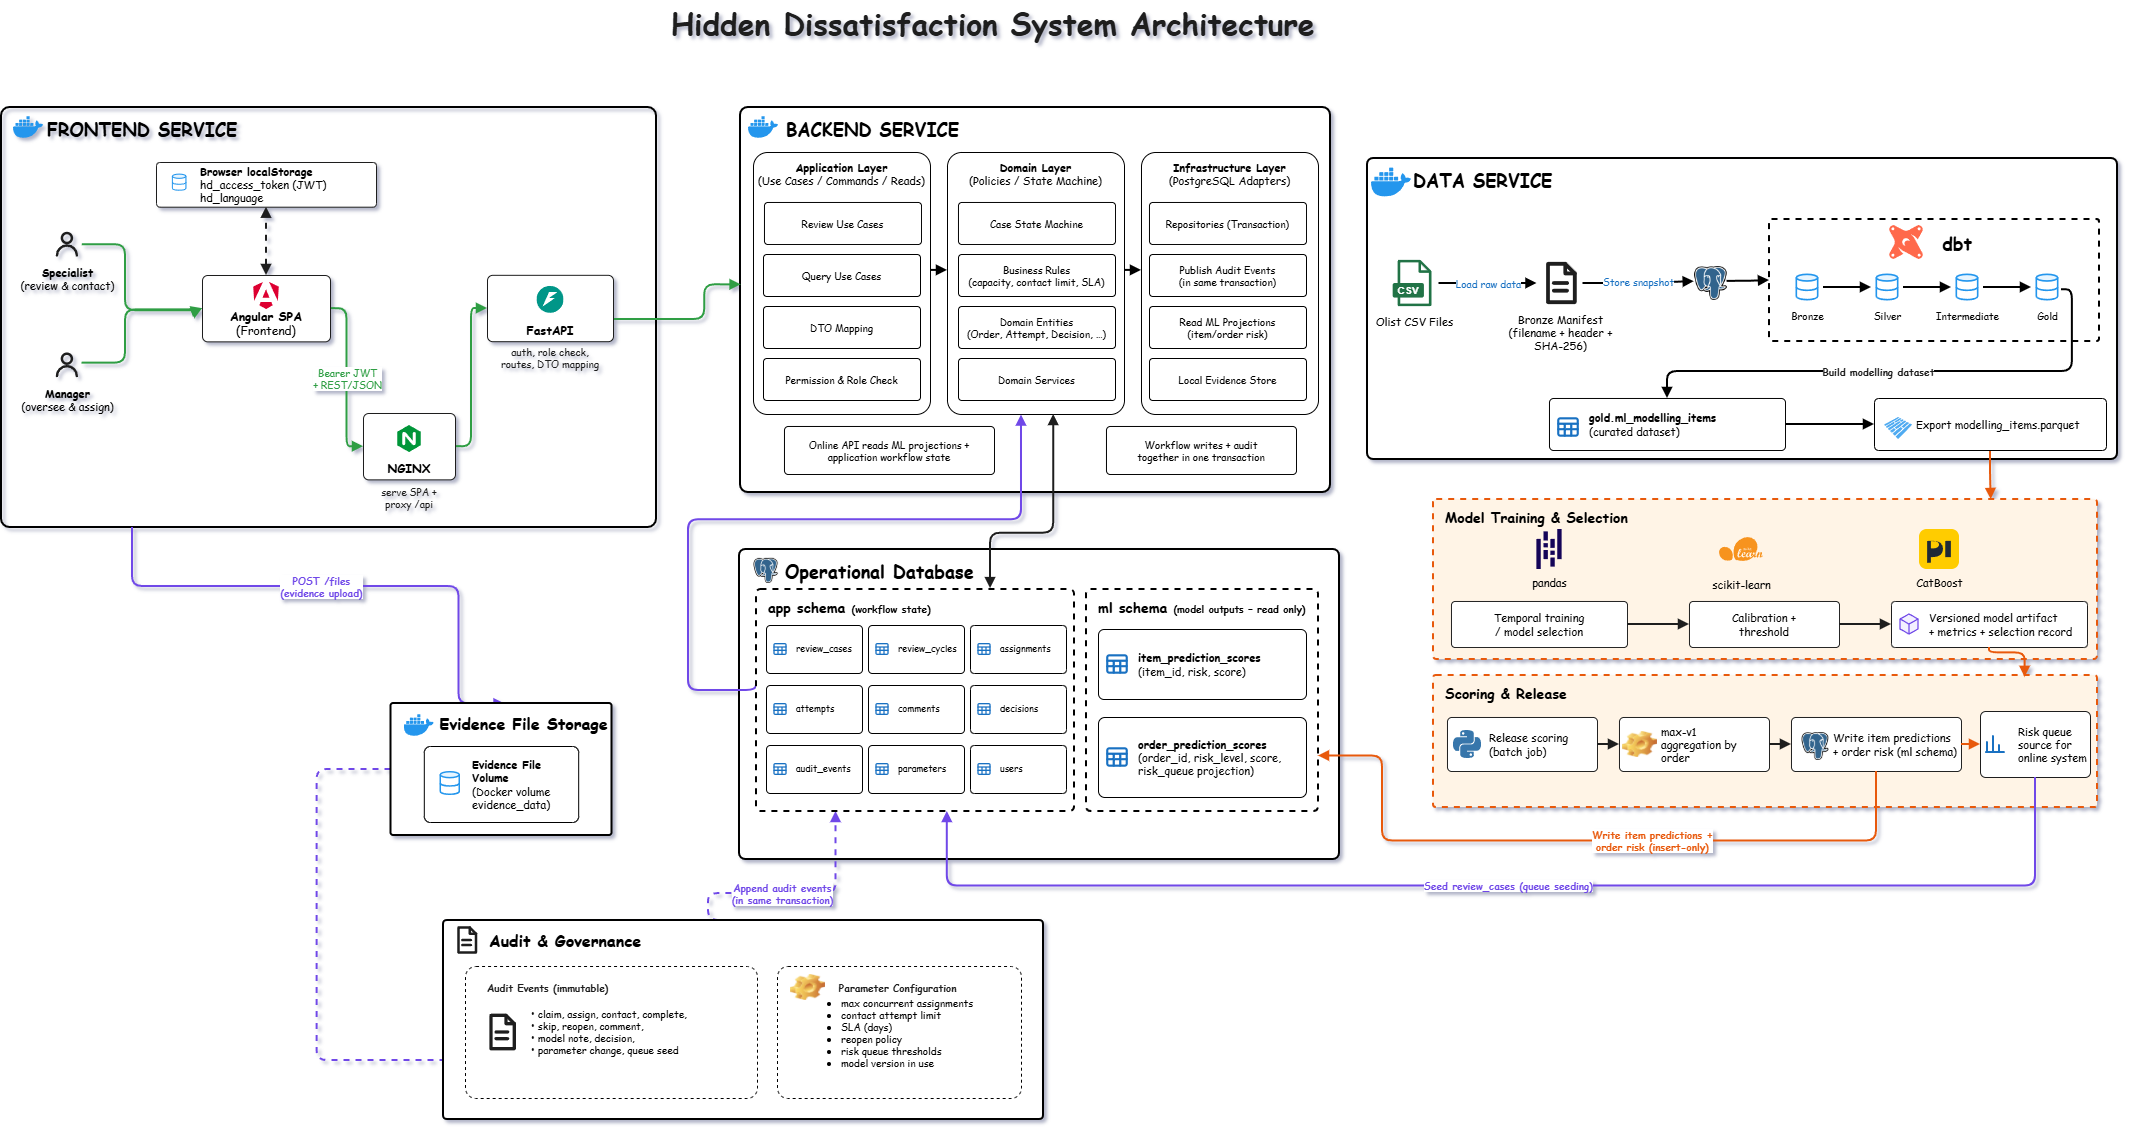
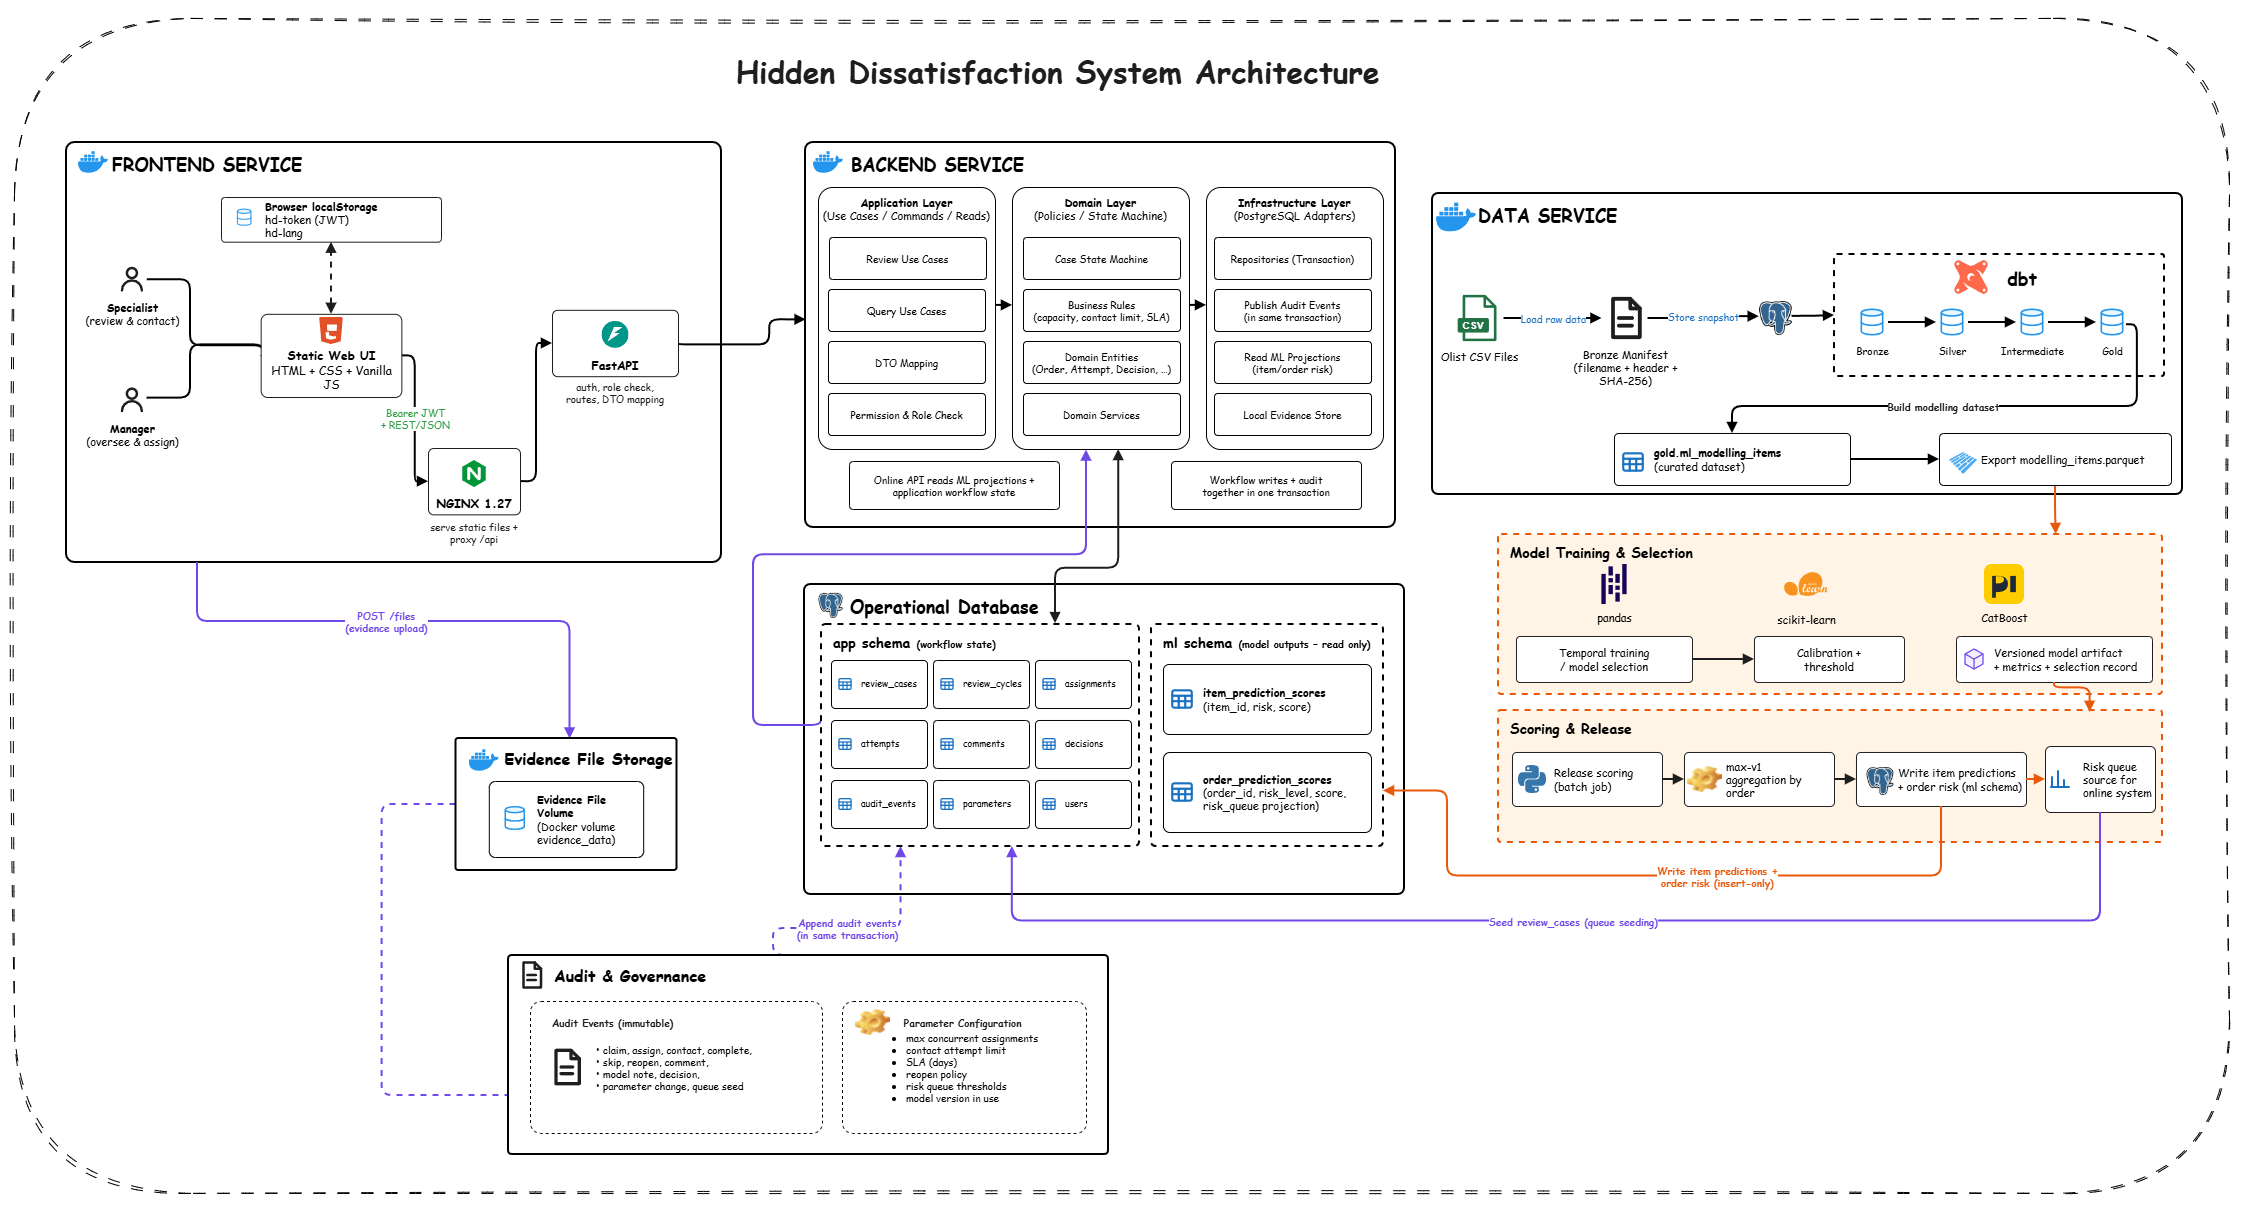
docs(thesis): align chapter 3/4 with as-built system on dev
- Replace Angular with static web UI (HTML/CSS/JS via NGINX) in ch3/ch4 and
  architecture diagram; re-export Figure 3.2
- Ch3: reconcile sealed-test wording with ch4, note prevalence grain gap,
  mark declared vs executed model families, add calibration Brier results,
  dedupe system spec with ch4, retitle section 3.1
- Fix Figure 3.1 so warehouse frame no longer overlaps ML steps
- Link architecture diagram from section 4.2

diff --git a/Thesis/latex/chapters/ch4_complete.tex b/Thesis/latex/chapters/ch4_complete.tex
@@ -9,7 +9,7 @@ Hệ thống tách luồng ngoại tuyến và trực tuyến. Luồng ngoại t
 
 \section{Kiến trúc hệ thống và ranh giới dữ liệu}\label{sec:architecture}
 
-Hệ thống gồm PostgreSQL, dịch vụ FastAPI, ứng dụng Angular và các job Python, được đóng gói bằng Docker Compose. PostgreSQL giữ ba vùng dữ liệu có vai trò khác nhau: Bronze/Silver/Gold phục vụ kho dữ liệu; schema \texttt{ml} giữ release, snapshot dự đoán và ngưỡng; schema \texttt{app} giữ người dùng, case, chu kỳ xử lý, liên lạc, quyết định, tham số và audit. Angular gọi REST/JSON đến FastAPI; FastAPI điều phối request, xác thực, phân quyền và ánh xạ lỗi, còn luật nghiệp vụ nằm ở domain/use case và adapter PostgreSQL thực hiện giao dịch.
+Hệ thống gồm PostgreSQL, dịch vụ FastAPI, giao diện web tĩnh (HTML, CSS, JavaScript thuần, phục vụ qua NGINX) và các job Python, được đóng gói bằng Docker Compose. PostgreSQL giữ ba vùng dữ liệu có vai trò khác nhau: Bronze/Silver/Gold phục vụ kho dữ liệu; schema \texttt{ml} giữ release, snapshot dự đoán và ngưỡng; schema \texttt{app} giữ người dùng, case, chu kỳ xử lý, liên lạc, quyết định, tham số và audit. Giao diện web gọi REST/JSON qua NGINX đến FastAPI; FastAPI điều phối request, xác thực, phân quyền và ánh xạ lỗi, còn luật nghiệp vụ nằm ở domain/use case và adapter PostgreSQL thực hiện giao dịch. Sơ đồ kiến trúc tổng thể của hệ thống được trình bày tại \href{https://drive.google.com/file/d/1KQCf87vmt3pYd_h88GxXBbxqkOniqAdy/view?usp=sharing}{liên kết này}.
 
 Điểm nối giữa hai luồng là snapshot dự đoán bất biến. Job chấm điểm tạo điểm ở mức item, sau đó tổng hợp điểm đơn bằng luật \texttt{max-v1}. Snapshot mang phiên bản model, phiên bản ngưỡng, thời điểm chấm điểm và nguồn dữ liệu. Workflow có thể thay đổi người được giao, trạng thái, liên lạc hoặc quyết định; không có API sửa trực tiếp score hay risk level. Nhờ đó có thể đối chiếu kết quả xử lý với đúng điểm đã tạo hàng đợi, thay vì một điểm bị thay đổi bởi thao tác vận hành.
 

diff --git a/Thesis/latex/chapters/ch4_system.tex b/Thesis/latex/chapters/ch4_system.tex
@@ -5,7 +5,7 @@ Kết quả dự báo chỉ có giá trị thực hành khi có thể đi vào m
 
 \subsection{Kiến trúc và ranh giới dữ liệu}
 
-Hệ thống gồm PostgreSQL, dịch vụ FastAPI, ứng dụng Angular và các job Python, được đóng gói bằng Docker Compose. PostgreSQL giữ ba vùng dữ liệu có vai trò khác nhau: Bronze/Silver/Gold phục vụ kho dữ liệu; schema \texttt{ml} giữ release, snapshot dự đoán và ngưỡng; schema \texttt{app} giữ người dùng, case, chu kỳ xử lý, liên lạc, quyết định, tham số và audit. Angular gọi REST/JSON đến FastAPI; FastAPI chỉ điều phối request, xác thực, phân quyền và ánh xạ lỗi, còn luật nghiệp vụ nằm ở domain/use case và adapter PostgreSQL thực hiện giao dịch.
+Hệ thống gồm PostgreSQL, dịch vụ FastAPI, giao diện web tĩnh (HTML, CSS, JavaScript thuần, phục vụ qua NGINX) và các job Python, được đóng gói bằng Docker Compose. PostgreSQL giữ ba vùng dữ liệu có vai trò khác nhau: Bronze/Silver/Gold phục vụ kho dữ liệu; schema \texttt{ml} giữ release, snapshot dự đoán và ngưỡng; schema \texttt{app} giữ người dùng, case, chu kỳ xử lý, liên lạc, quyết định, tham số và audit. Giao diện web gọi REST/JSON qua NGINX đến FastAPI; FastAPI chỉ điều phối request, xác thực, phân quyền và ánh xạ lỗi, còn luật nghiệp vụ nằm ở domain/use case và adapter PostgreSQL thực hiện giao dịch.
 
 Điểm nối giữa hai luồng là snapshot dự đoán bất biến. Job chấm điểm tạo điểm ở mức item, sau đó tổng hợp điểm đơn bằng luật \texttt{max-v1}. Snapshot mang phiên bản model, phiên bản ngưỡng, thời điểm chấm điểm và nguồn dữ liệu. Workflow có thể thay đổi người được giao, trạng thái, liên lạc hoặc quyết định; không có API sửa trực tiếp score hay risk level. Cách tách này cho phép sau này đối chiếu kết quả xử lý với đúng điểm đã tạo hàng đợi, thay vì đối chiếu với một điểm đã bị thay đổi bởi thao tác vận hành.
 
